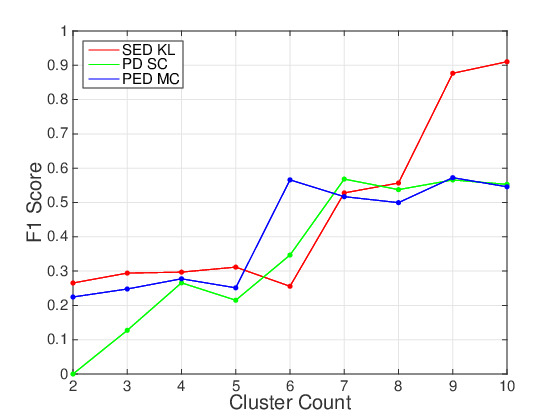
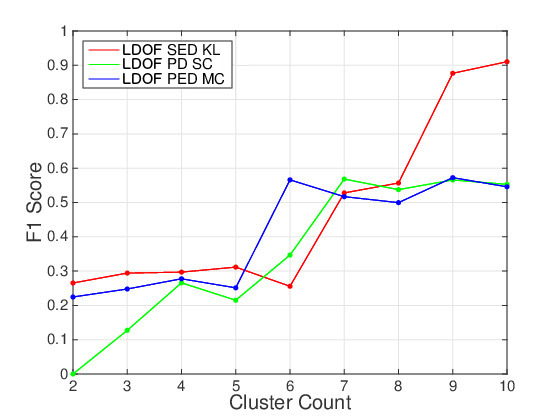
Specifying full pipeline mode in experiments

Changed region(s): [[0.2125, 0.0929, 0.425, 0.2167]]

diff --git a/Document/Source/Chapters/chapter5.tex b/Document/Source/Chapters/chapter5.tex
@@ -727,12 +727,12 @@ In this section we want to illustrate the dominance of affinities that use depth
 \hline
 \multicolumn{4}{|c|}{Comparison Bonn Chairs on LDOF}                        \\ \hline
 \textbf{Method} & \textbf{Precision} & \textbf{Recall} & \textbf{F1 Score}  \\ \hline
-PD SC & 47.48\% & 54.88\% & 50.91\% \\ \hline
-PED SC & 56.86\% & 55.35\% & 55.35\% \\ \hline
-PD MC & 46.46\% & 63.10\% & 53.51\% \\ \hline
-PED MC & 56.68\% & 64.56\% & 60.36\% \\ \hline              
-SD KL & 51.34\% & 63.44\% & 56.75\% \\ \hline
-SED KL & 68.42\% & 69.63\% & 69.01\% \\ \hline
+LDOF PD SC & 47.48\% & 54.88\% & 50.91\% \\ \hline
+LDOF PED SC & 56.86\% & 55.35\% & 55.35\% \\ \hline
+LDOF PD MC & 46.46\% & 63.10\% & 53.51\% \\ \hline
+LDOF PED MC & 56.68\% & 64.56\% & 60.36\% \\ \hline              
+LDOF SD KL & 51.34\% & 63.44\% & 56.75\% \\ \hline
+LDOF SED KL & 68.42\% & 69.63\% & 69.01\% \\ \hline
 \end{tabular}
 \caption[2D vs. 3D: Bonn Datasets]{Comparing affinities computed by 3D trajectories against 2D trajectories.}
 \label{tab:bonn_datasets_2d_vs_3d}
@@ -747,10 +747,10 @@ In this experiment we compare our two P-affinity segmentation methods. For this 
 \hline
 \multicolumn{4}{|c|}{Comparison one chair dataset on LDOF}                        \\ \hline
 \textbf{Method} & \textbf{Precision} & \textbf{Recall} & \textbf{F1 Score}  \\ \hline
-PD SC & 54.23\% & 47.82\% & 50.82\% \\ \hline
-PD MC & 55.64\% & 49.50\% & 52.39\% \\ \hline
-PED SC & 56.14\% & 53.75\% & 54.92\% \\ \hline
-PED MC & 62.23\% & 58.07\% & 60.08\% \\ \hline              
+LDOF PD SC & 54.23\% & 47.82\% & 50.82\% \\ \hline
+LDOF PD MC & 55.64\% & 49.50\% & 52.39\% \\ \hline
+LDOF PED SC & 56.14\% & 53.75\% & 54.92\% \\ \hline
+LDOF PED MC & 62.23\% & 58.07\% & 60.08\% \\ \hline              
 \end{tabular}
 \caption[SC vs. MC]{Comparing the segmentation methods SC and MC} 
 \label{tab:one_chair_sc_vs_mc}
